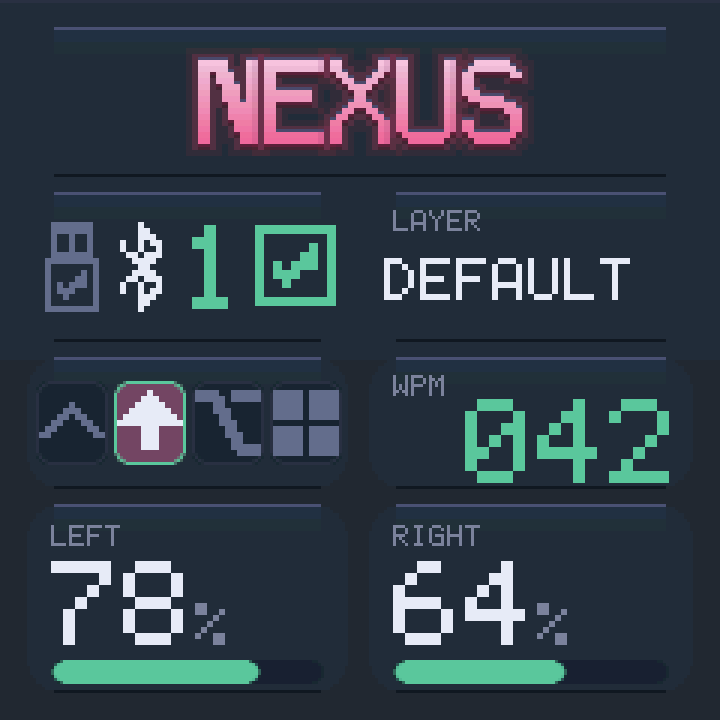
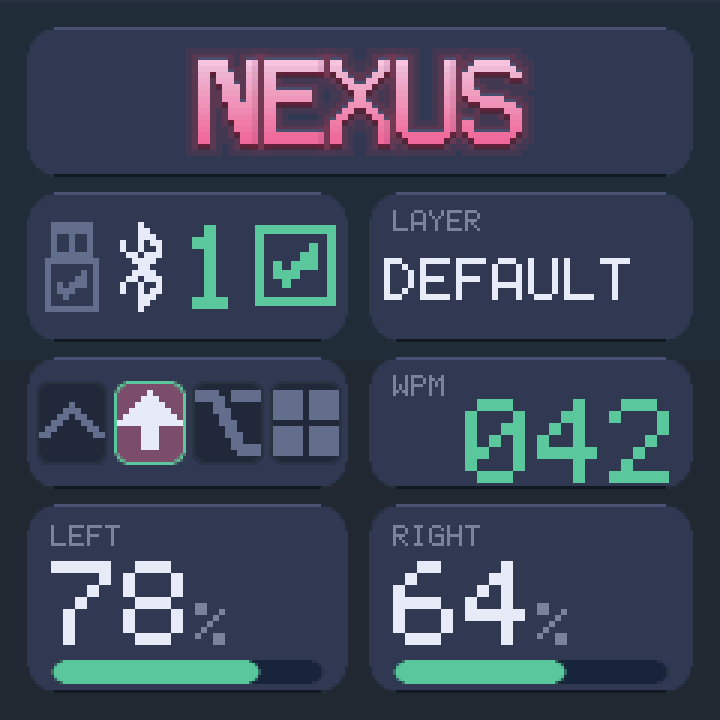
fix(N-06): Clay's panes have a body
Clay is the neumorphic theme: panes the colour of the ground, read only
through their lit and shaded edges. Real neumorphism does that with a soft
shadow on both sides. A one-pixel hairline cannot, and with the pane the
ground's own colour the upper cards were a line above and a line below with
nothing between them - which reads as a rendering artifact, not an edge.

Measured, it was worse than equal: the pane was 5 luma DARKER than the top of
the gradient, and only 5 lighter at the bottom. It is now one shade above the
ground, +10 at the top and +20 at the bottom, and the existing dark bottom line
finally has a body to be the edge of.

test_theme.py gains the rule behind it, measured rather than invented: a pane
must differ from the ground beneath it by at least 8 luma at both ends of the
gradient, in the same direction. 8 is what the five themes nobody complained
about already clear. Sunset fails it (-2 at the top, -38 at the bottom), which
is ticket N-07, so it is listed as a visible todo rather than skipped.

Only home-clay.png and theme-clay.png changed; the other six themes render
byte-identical.

diff --git a/tests/ui/test_theme.py b/tests/ui/test_theme.py
@@ -80,6 +80,32 @@ def main():
         ok(not missing, '%-9s declares them all%s'
            % (t['name'], '' if not missing else ' - missing %s' % missing))
 
+    print('\nEvery card reads as a card, top to bottom')
+    # A pane has to differ from the ground it sits on, and the ground is a
+    # gradient - so it has to differ at BOTH ends, in the same direction.
+    # Clay's pane was 5 luma darker than the top of its ground, which left
+    # the upper cards as a hairline above and a hairline below with nothing
+    # between. Sunset's ran from -2 at the top to -38 at the bottom: the
+    # header pane vanished while the battery panes shouted.
+    #
+    # 8 is the floor because it is what the five themes nobody complained
+    # about already clear - the rule is measured from them, not invented.
+    FLOOR = 8
+    # Sunset is N-07, its own ticket. Listed here rather than skipped
+    # silently so the rule is visibly incomplete until it is not.
+    KNOWN = {'SUNSET'}
+    for t in ts:
+        if t['name'] in KNOWN:
+            print('  todo  %-9s is ticket N-07' % t['name'])
+            continue
+        top = lum(over(t['panel'], t['bg_top'], t['panel_alpha'])) \
+            - lum(t['bg_top'])
+        bot = lum(over(t['panel'], t['bg_bot'], t['panel_alpha'])) \
+            - lum(t['bg_bot'])
+        ok(min(abs(top), abs(bot)) >= FLOOR and (top > 0) == (bot > 0),
+           '%-9s pane is %+d luma against the top, %+d against the bottom'
+           % (t['name'], top, bot))
+
     print('\nThe wordmark halo is a dark-ground device')
     # A halo works because a bright letter plausibly spills light into a dark
     # ground. On a light one there is nothing to spill into and the same

diff --git a/src/ui/theme.c b/src/ui/theme.c
@@ -88,7 +88,16 @@ static const struct nexus_theme themes[] = {
 		.bg_top = NEXUS_C(0x2B3143u), .bg_bot = NEXUS_C(0x232835u),
 		.glow_a = NEXUS_C(0x000000u), .glow_b = NEXUS_C(0x000000u),
 		.glow_alpha = 0,
-		.panel = NEXUS_C(0x272C3Bu), .panel_alpha = 255,
+		/*
+		 * One shade above the ground, not equal to it. Pure
+		 * neumorphism reads a pane through a soft shadow on both
+		 * sides, and a 1px hairline cannot do that: with the pane the
+		 * ground's own colour, the top two cards were nothing but a
+		 * line above and a line below with no body between them,
+		 * which reads as a rendering artifact rather than an edge.
+		 * It was 5 luma DARKER than the top of the gradient.
+		 */
+		.panel = NEXUS_C(0x343B51u), .panel_alpha = 255,
 		.edge_hi = NEXUS_C(0x4A5271u), .edge_hi_alpha = 255,
 		.edge_lo = NEXUS_C(0x151824u), .edge_lo_alpha = 255,
 		.border = NEXUS_C(0x353B4Eu), .border_alpha = 200,
